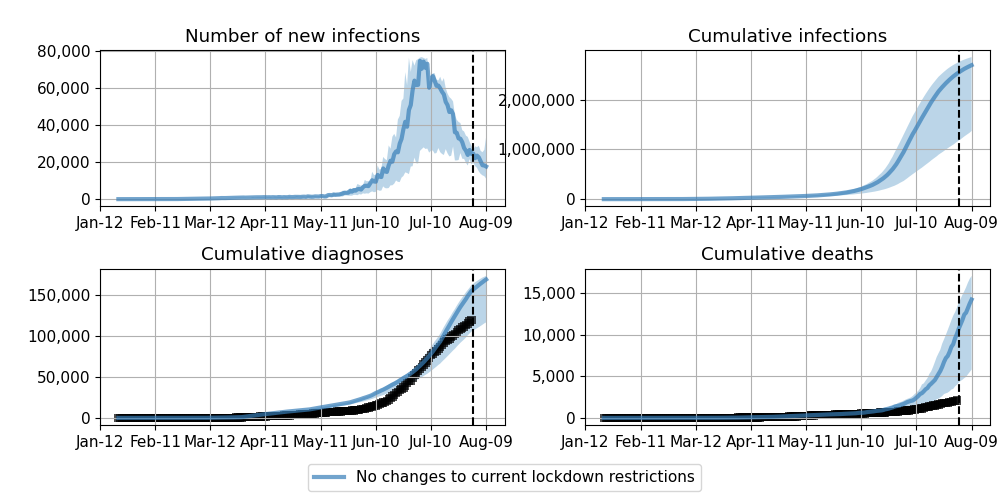
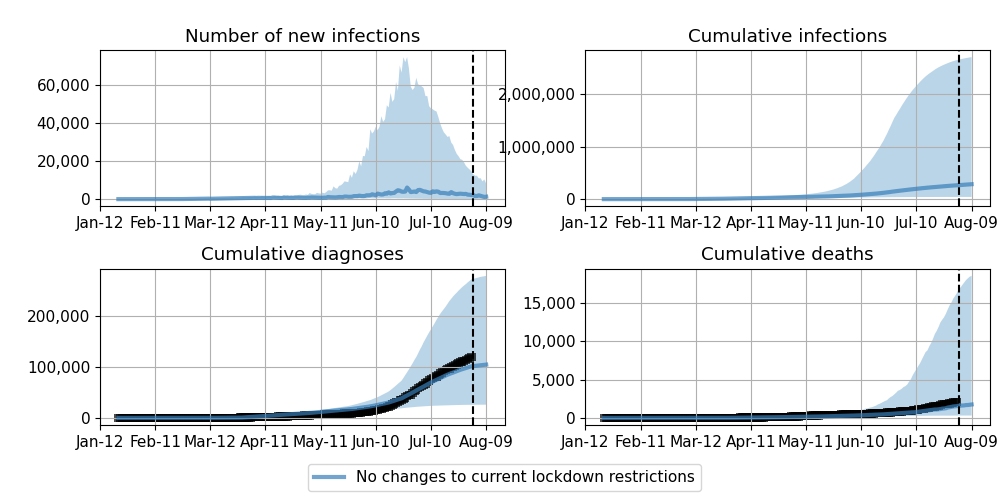
More WIP Phoenix

diff --git a/applications/us_states/run_phoenix.py b/applications/us_states/run_phoenix.py
@@ -22,9 +22,9 @@ if __name__ == "__main__":
 
     # country-specific parameters
     user_pars = {locations[0]: {'pop_size': int(10e4),
-                              'beta': 0.071,
+                              'beta': 0.0709,
                               'n_days': 360,
-                              'pop_infected': 20,
+                              'pop_infected': 5,
                               'calibration_end': '2020-08-02'}}
 
     mid_aug = 206  # make this the key date
@@ -35,27 +35,27 @@ if __name__ == "__main__":
 
     # the metapars for all countries and scenarios
     metapars = {'n_runs': 8,
-                'noise': 0.03,
+                'noise': 0.003,
                 'verbose': 1,
                 'rand_seed': 1}
 
     # the policies to change during scenario runs
 
     scen_opts = {locations[0]:  {'Small easing of restrictions in mid-August':
-                                {'replace': (['lockdown4'], [['relax3']], [[mid_aug]]),
-                                 'policies': {'relax1': {'beta': 0.58}}},
+                                {'replace': (['lockdown6'], [['relax2']], [[mid_aug]]),
+                                 'policies': {'relax1': {'beta': 0.65}}},
 
                                 'Moderate easing of restrictions in mid-August':
-                                {'replace': (['lockdown4'], [['relax4']], [[mid_aug]]),
-                                 'policies': {'relax4': {'beta': 0.68}}},
+                                {'replace': (['lockdown6'], [['relax3']], [[mid_aug]]),
+                                 'policies': {'relax4': {'beta': 0.75}}},
 
                                 'Small easing of restrictions in mid-September':
-                                {'replace': (['lockdown4'], [['relax3']], [[mid_sep]]),
-                                 'policies': {'relax1': {'beta': 0.58}}},
+                                {'replace': (['lockdown6'], [['relax2']], [[mid_sep]]),
+                                 'policies': {'relax1': {'beta': 0.65}}},
 
                                 'Moderate easing of restrictions in mid-September':
-                                {'replace': (['lockdown4'], [['relax4']], [[mid_sep]]),
-                                 'policies': {'relax4': {'beta': 0.68}}},
+                                {'replace': (['lockdown6'], [['relax3']], [[mid_sep]]),
+                                 'policies': {'relax4': {'beta': 0.75}}},
 
                                 'No changes to current lockdown restrictions':
                                 {'replace': (['lockdown4'], [['lockdown4']], [[500]])},

diff --git a/applications/us_states/validate_phoenix.py b/applications/us_states/validate_phoenix.py
@@ -18,13 +18,13 @@ if __name__ == "__main__":
 
     # country-specific parameters
     user_pars = {locations[0]: {'pop_size': int(10e4),
-                               'beta': 0.07,
+                               'beta': 0.0709,
                                'n_days': 200,
                                'pop_infected': 5,
                                'calibration_end': '2020-08-02'}}
 
     # the metapars for all countries and scenarios
-    metapars = {'n_runs': 4,
+    metapars = {'n_runs': 8,
                 'noise': 0.005,
                 'verbose': 1,
                 'rand_seed': 1}
@@ -49,7 +49,7 @@ if __name__ == "__main__":
     scens['verbose'] = True
 
     utils.policy_plot2(scens, plot_ints=False, do_save=True, do_show=True,
-                       fig_path=dirname + '/figs/Phoenix-calibrate' + '.png',
+                       fig_path=dirname + '/figs/Phoenix-calibrate2' + '.png',
                        interval=30, n_cols=2,
                        fig_args=dict(figsize=(10, 5), dpi=100),
                        font_size=11,
